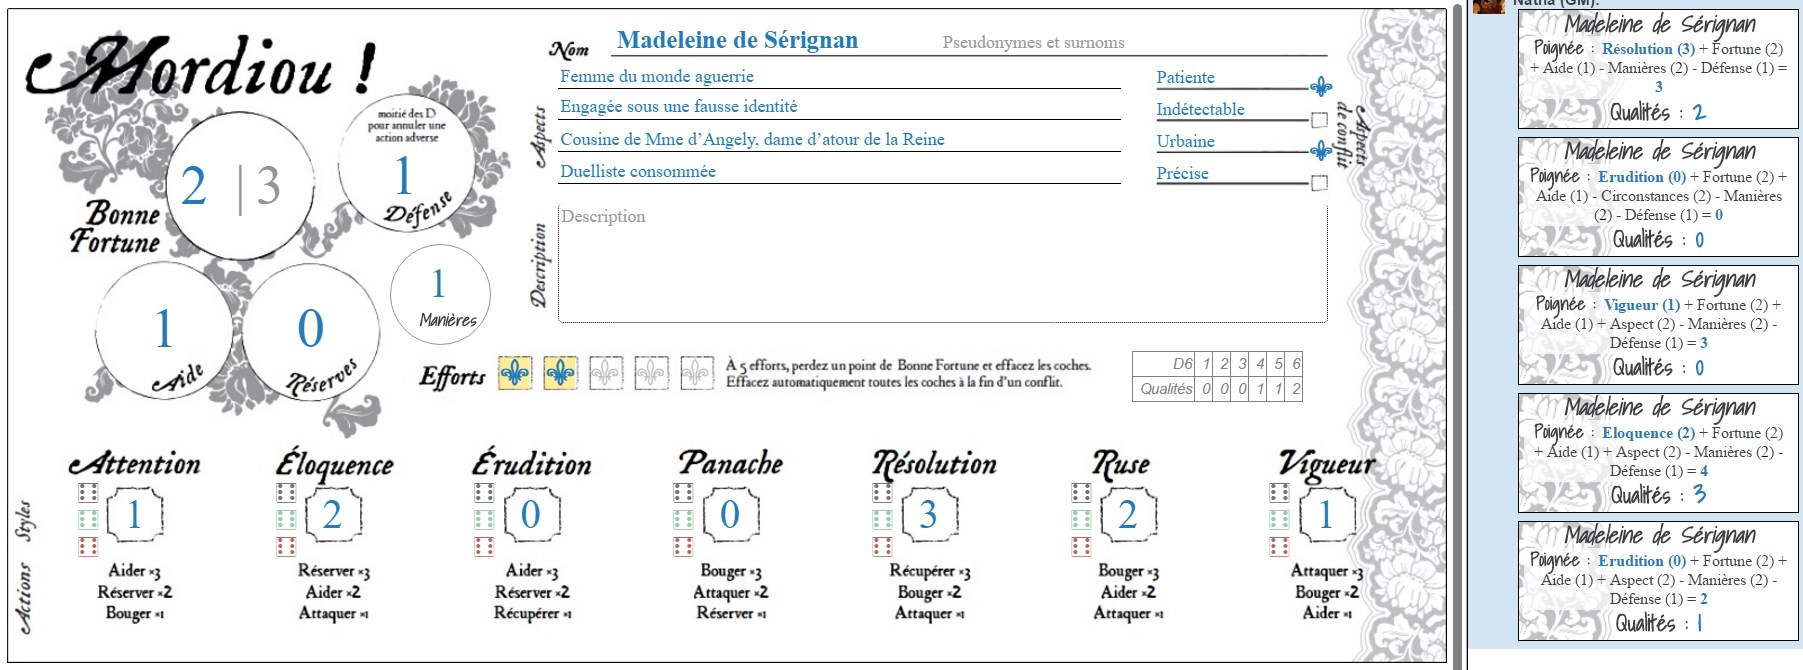
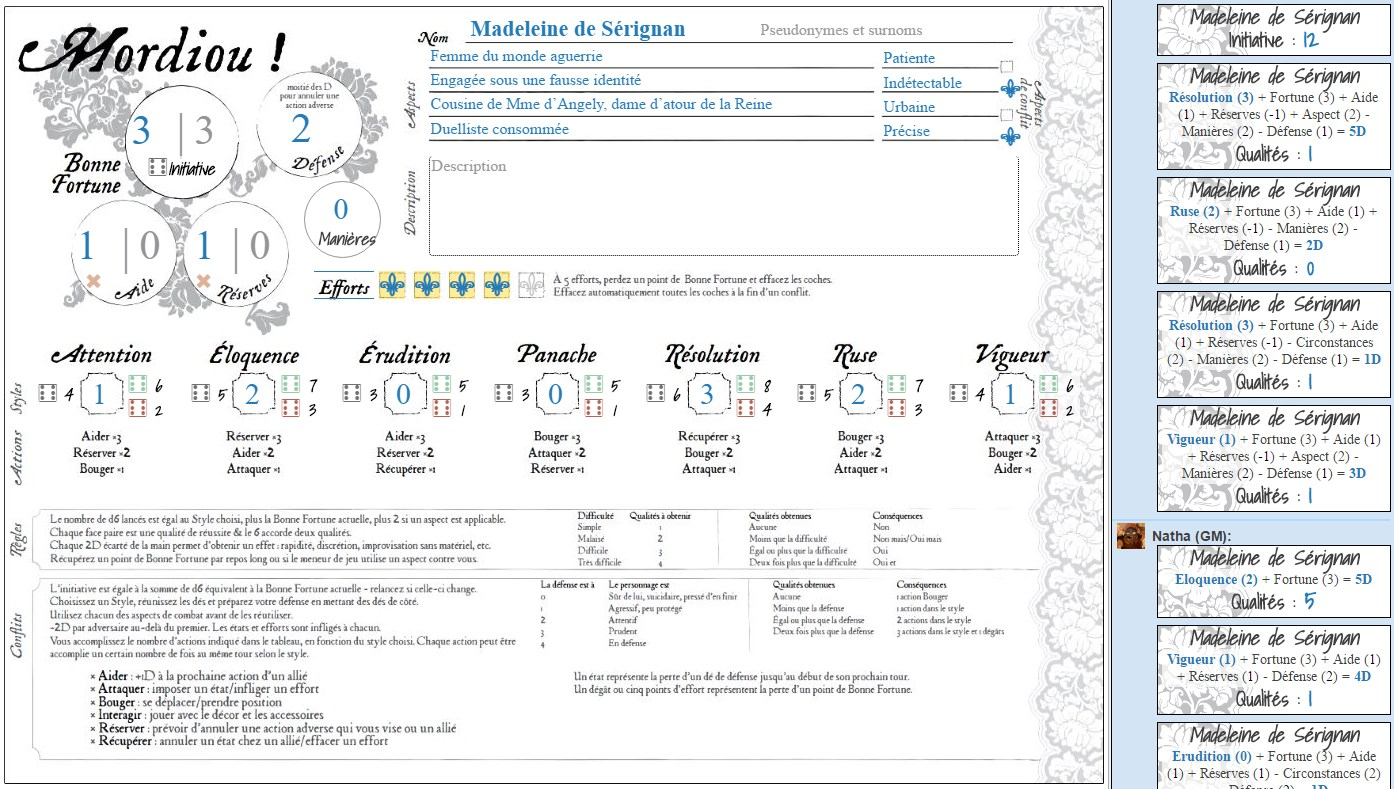
Mordiou v1.1 finale

diff --git a/Mordiou/ReadMe.md b/Mordiou/ReadMe.md
@@ -11,12 +11,37 @@ Tout commençait généralement par un bon repas, servi à sa table, la meilleur
 Mordiou ! est un jeu de rôle complet, proposant de jouer des héros de cape et d'épée dans une France légèrement fantasmée - vous y trouverez un système de jeu original (tout au d6), une courte description de Paris à l'époque et de quelques figures majeures de l'univers, ainsi que quatre scénarios.
 
 # Version courante
-1.0 [Capture d'écran](mordiou.jpg)
+1.1 [Capture d'écran](mordiou.jpg)
 
-Les jets diffèrent légèrement du livre de règles (pour compenser un manque technique de Roll20 et ne pas utiliser l'API) mais restent statistiquement identiques.   
+Les jets diffèrent légèrement du livre de règles (pour compenser un manque technique de Roll20 et ne pas utiliser l'API) mais restent statistiquement identiques.
 Au lieu de compter une Qualité sur des résultats pairs au D6, et deux qualités pour un résultat 6, la feuille ne compte aucune qualité pour un résultat de 1,2 ou 3 au D6, une qualité pour un résultat de 4 ou 5, et deux qualités pour un résultat de 6.
 
 # Notes de version
+
+##v1.1 (2017-02-26)
+Merci au Grümph, à Xo de Vorcen et Nessir pour les retours, idées et suggestions.
+
+* Jet d'inititiative ajouté
+* Affichage dynamque de la valeur des poignées pour chaque lancer, sur la feuille
+* Aspects de conflit : cocher le 4ième Aspect efface tous les coches
+* Effots : cocher le 5ième Effort décoche tout et diminue la Forturne de 1
+* Aide et Réserves : ajout d'une valeur de "pool" (grise) en plus de la valeur pour le jet (bleu).
+    * Aide :
+        * augmenter le pool d'Aide n'a pas d'effet sur le pool
+        * augmenter l'Aide pour le jet diminue le pool d'Aide de 1
+        * diminuer l'Aide pour le jet n'a pas d'effet sur le pool
+    * Réserves :
+        * la Réserves pour le jet n'est pas modifiable (sauf RàZ)
+        * Augmenter le pool de Réserves diminue la Réserves pour le jet, et donc la poignée (retenue de dé)
+        * Diminuer le pool de Réserves augmente la Réserves pour le jet, et donc la poignée (dépense de dé)
+* Croix pour Remettre à Zéro la valeur d'Aide et de Réserves pour le jet
+* Template de jet :
+    * "Poignée" retiré
+    * n'affiche le détail des valeurs que si différentes de zéro
+* Fond de page : les aides de la feuille papier sont désormais présentes
+* Taille globale de la feuille diminuée de 15%
+* Tableau des Qualités pour Roll20 enlevé
+* Interne : simplification de la formule de jet
 
 ##v1.0 (2017-02-18)
 
